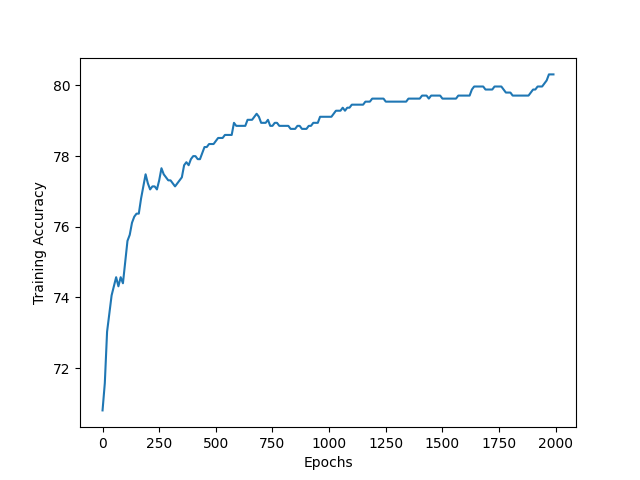
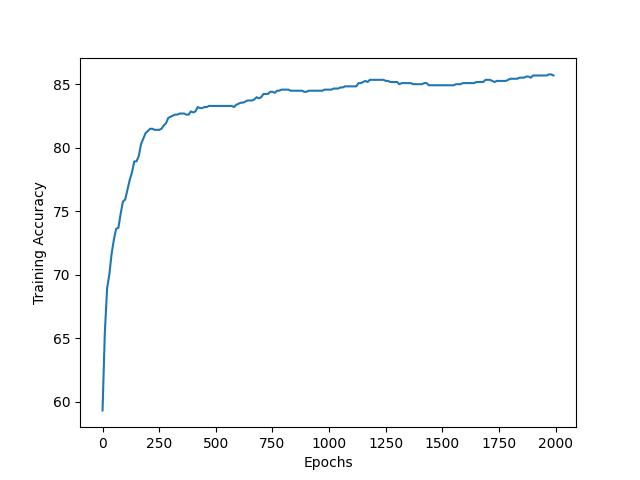
Final Touches

diff --git a/ass_1/q2_final_stem_version.py b/ass_1/q2_final_stem_version.py
@@ -36,17 +36,17 @@ def sentence_to_stem(sentence):
     return s
 
 
-def fill_vocab(sentence, vocab, pos_vocab, vocab_0, y, wc_total, wc_pos, laplace_constant):
+def fill_vocab(sentence, vocab, vocab_1, vocab_0, y, wc_total, wc_pos, laplace_constant):
     words = sentence.split(' ')
     for word in words:
         wc_total += 1
         if word not in vocab:
             vocab[word] = laplace_constant
-            pos_vocab[word] = laplace_constant
+            vocab_1[word] = laplace_constant
             vocab_0[word] = laplace_constant
         vocab[word] += 1
         if y == 1:
-            pos_vocab[word] += 1
+            vocab_1[word] += 1
             wc_pos += 1
         if y == 0:
             vocab_0[word] += 1
@@ -54,7 +54,8 @@ def fill_vocab(sentence, vocab, pos_vocab, vocab_0, y, wc_total, wc_pos, laplace
 
 
 def calc_prob(X, y, laplace_constant=1):
-    prob_0, prob_1 = y[y == 0].shape[0] / y.shape[0], y[y == 1].shape[0] / y.shape[0]
+    prob_0 = (y[y == 0].shape[0]+laplace_constant)/ (y.shape[0] + 2*laplace_constant)
+    prob_1 = (y[y == 1].shape[0]+laplace_constant)/ (y.shape[0] + 2*laplace_constant)
     vocab, vocab_1, vocab_0, word_cnt_total, word_cnt_1 = {}, {}, {}, 0, 0
     for ind, sentence in enumerate(X):
         word_cnt_total, word_cnt_1 = fill_vocab(sentence[0], vocab, vocab_1, vocab_0, y[ind], word_cnt_total,
@@ -63,8 +64,7 @@ def calc_prob(X, y, laplace_constant=1):
     word_prob_1 = {key: value / (word_cnt_1 + len(vocab)) for key, value in vocab_1.items()}
     word_prob_0 = {key: value / (word_cnt_total - word_cnt_1 + len(vocab))
                    for key, value in vocab_0.items()}
-    log_prior_0, log_prior_1 = prob_0, prob_1
-    return vocab, vocab_0, vocab_1, word_prob_0, word_prob_1, word_cnt_total, word_cnt_1, log_prior_0, log_prior_1
+    return vocab, vocab_0, vocab_1, word_prob_0, word_prob_1, word_cnt_total, word_cnt_1, prob_0, prob_1
 
 
 df = pd.read_csv('a1_d3.txt', delimiter='\t', header=None)
@@ -83,18 +83,18 @@ for idx in range(5):
     X_test, y_test = cross_valid_lines[idx], cross_valid_target[idx]
     X_train = np.concatenate([x for i, x in enumerate(cross_valid_lines) if i != idx])
     y_train = np.concatenate([x for i, x in enumerate(cross_valid_target) if i != idx])
-    vocab, vocab_0, vocab_1, word_prob_0, word_prob_1, word_cnt_total, word_cnt_1, log_prior_0, log_prior_1 = calc_prob(
+    vocab, vocab_0, vocab_1, word_prob_0, word_prob_1, word_cnt_total, word_cnt_1, prob_0, prob_1 = calc_prob(
         X_train, y_train)
     y_pred = []
     for ind in range(len(X_test)):
         sent = X_test[ind][0].split(' ')
-        prob_sum_0, prob_sum_1 = log_prior_0, log_prior_1
+        prob_prod_0, prob_prod_1 = prob_0, prob_1
         for word in sent:
             if word in vocab_0:
-                prob_sum_0 *= word_prob_0[word]
+                prob_prod_0 *= word_prob_0[word]
             if word in vocab_1:
-                prob_sum_1 *= word_prob_1[word]
-        if prob_sum_0 > prob_sum_1:
+                prob_prod_1 *= word_prob_1[word]
+        if prob_prod_0 > prob_prod_1:
             y_pred.append(0)
         else:
             y_pred.append(1)

diff --git a/ass_1/q_1_final.py b/ass_1/q_1_final.py
@@ -1,4 +1,4 @@
-kimport pandas as pd
+import pandas as pd
 import numpy as np
 import matplotlib.pyplot as plt
 from scipy.stats import norm
